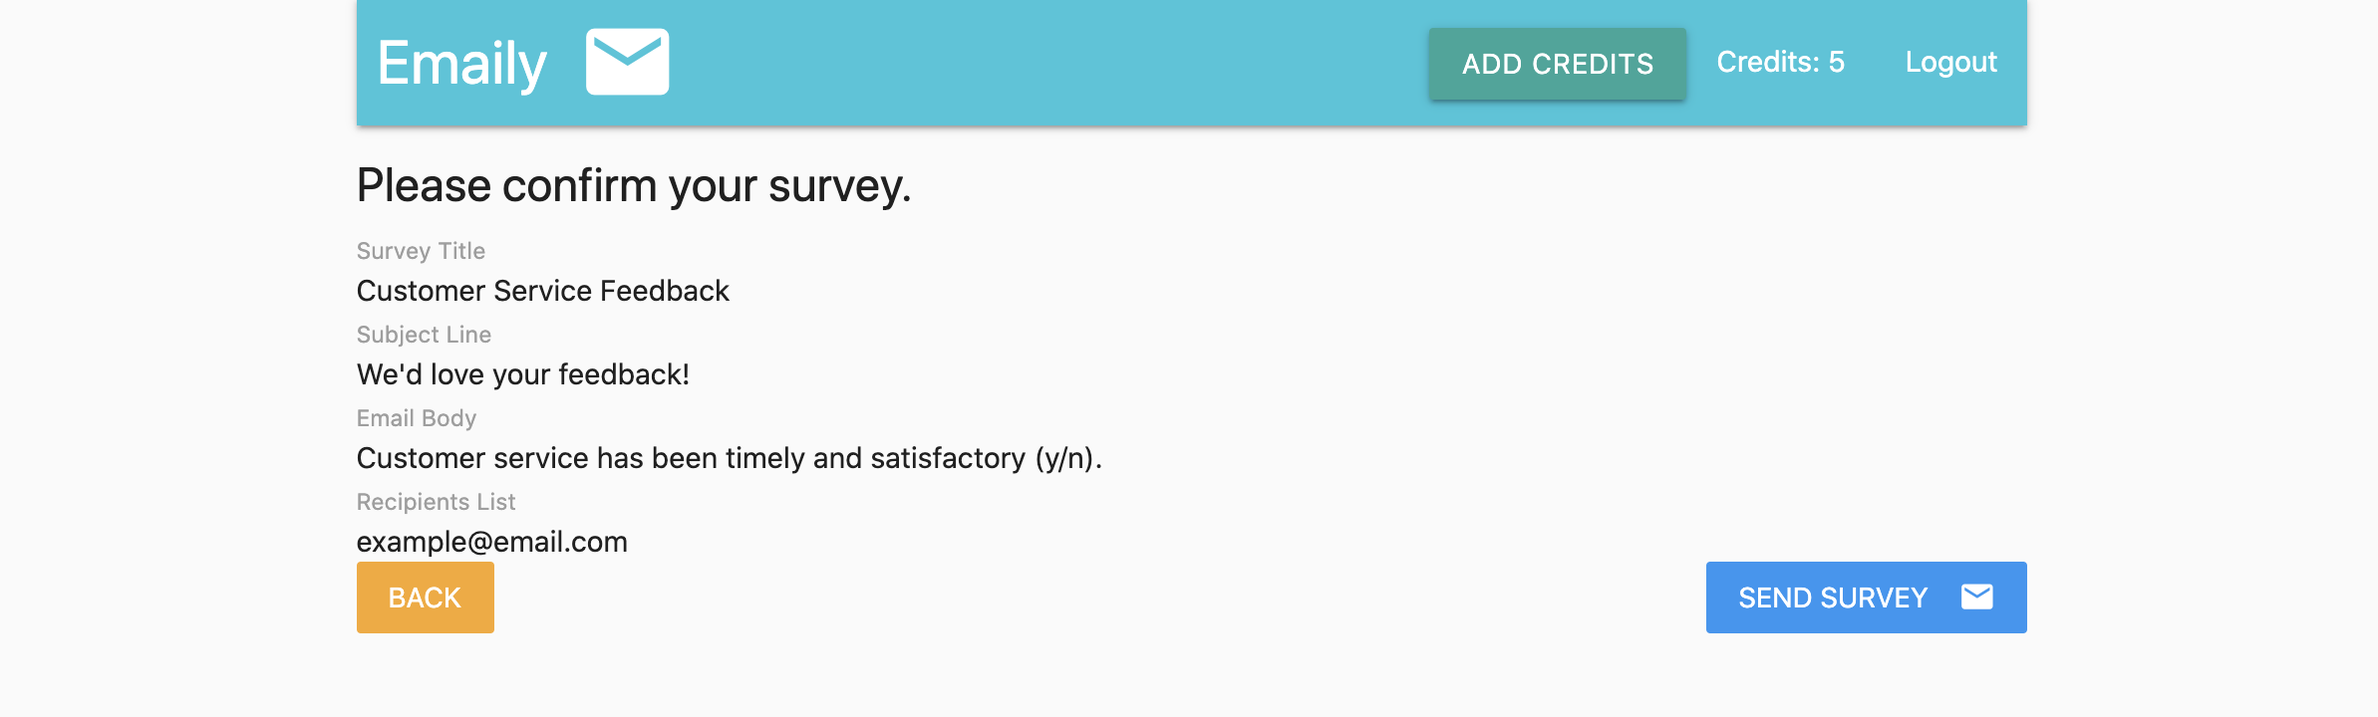
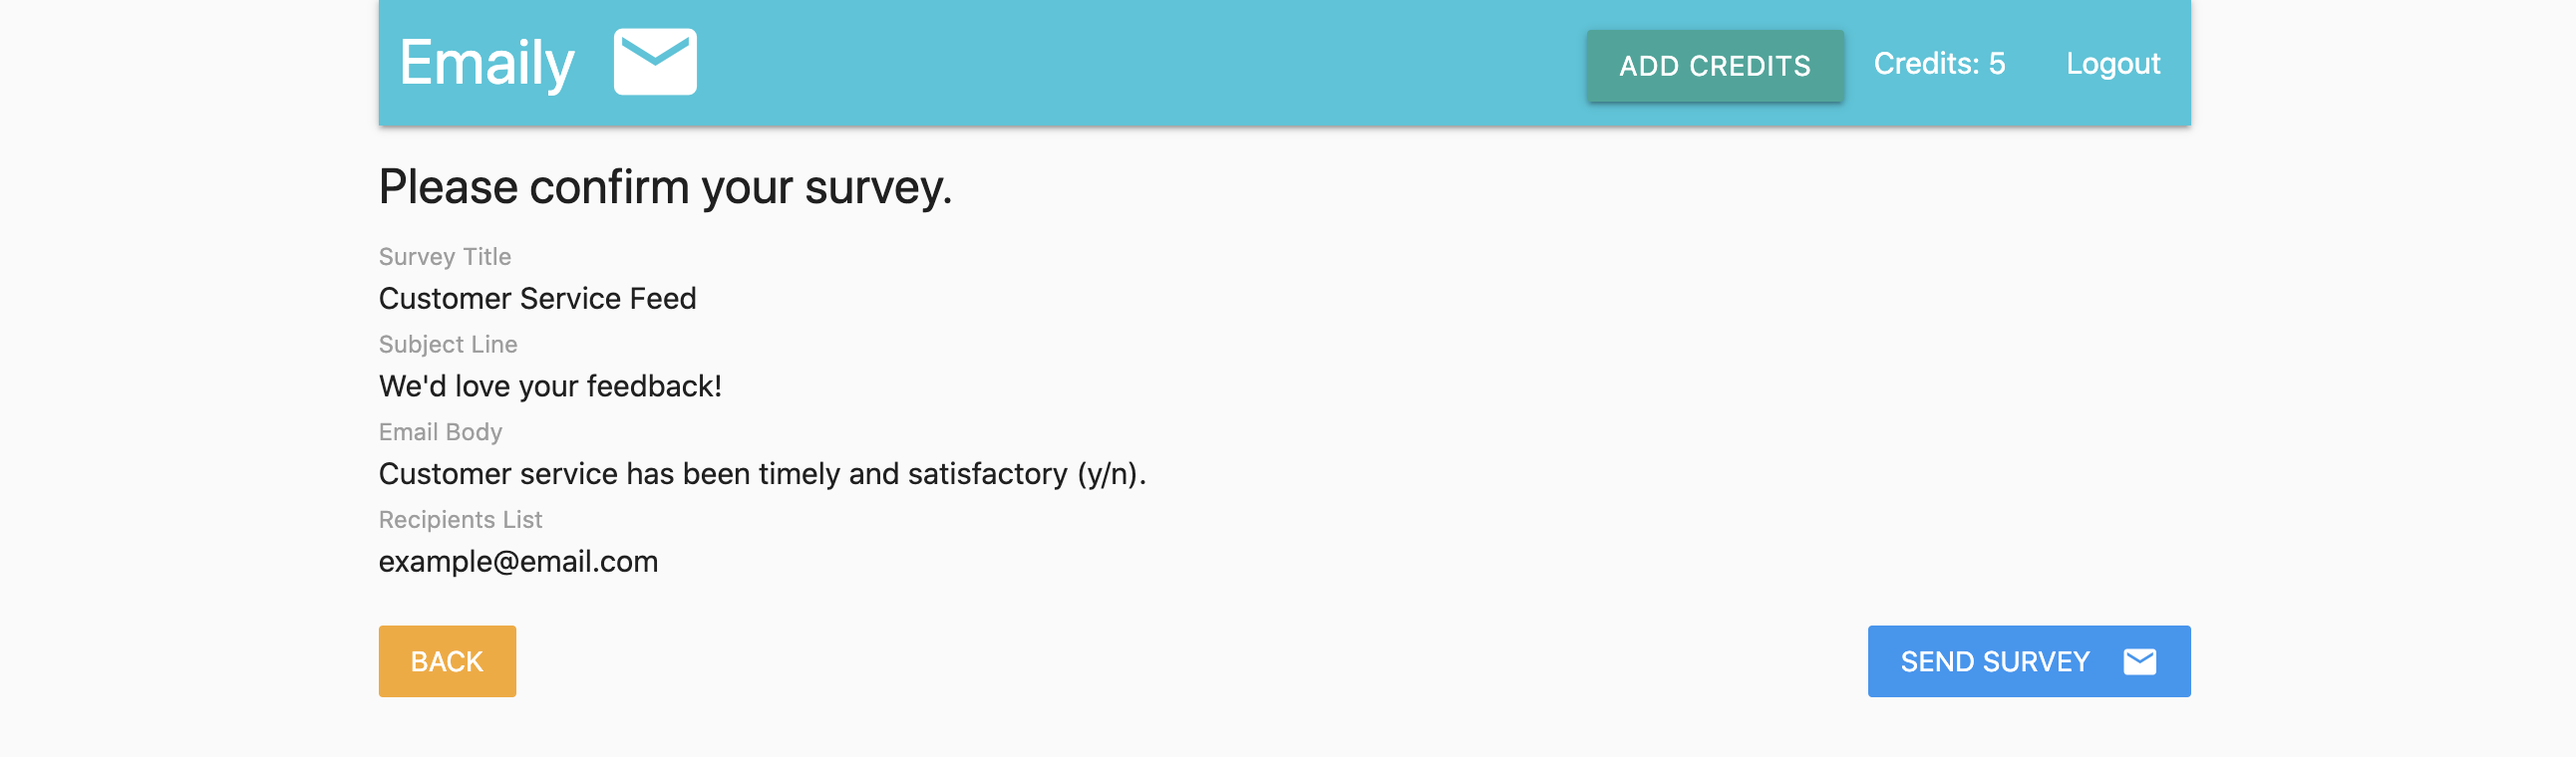
fixed image assets

diff --git a/client/src/components/surveys/SurveyFormReview.js b/client/src/components/surveys/SurveyFormReview.js
@@ -19,16 +19,21 @@ const SurveyFormReview = ({ onCancel, formValues, submitSurvey, history }) => {
         <div>
             <h5>Please confirm your survey.</h5>
             {reviewFields}
-            <button className="yellow darken-3 btn-flat white-text" onClick={ onCancel }>
-                Back
-            </button>
-            <button 
-                onClick={ async () => submitSurvey(formValues, history) }
-                className="blue btn-flat right white-text"
-            >
-                Send Survey
-                <i className="material-icons right white-text">email</i>
-            </button>
+            <br/>
+            
+            <div>
+                <button className="yellow darken-3 btn-flat white-text" onClick={ onCancel }>
+                    Back
+                </button>
+            
+                <button 
+                    onClick={ async () => submitSurvey(formValues, history) }
+                    className="blue btn-flat right white-text"
+                >
+                    Send Survey
+                    <i className="material-icons right white-text">email</i>
+                </button>
+            </div>
         </div>
     );
 };
